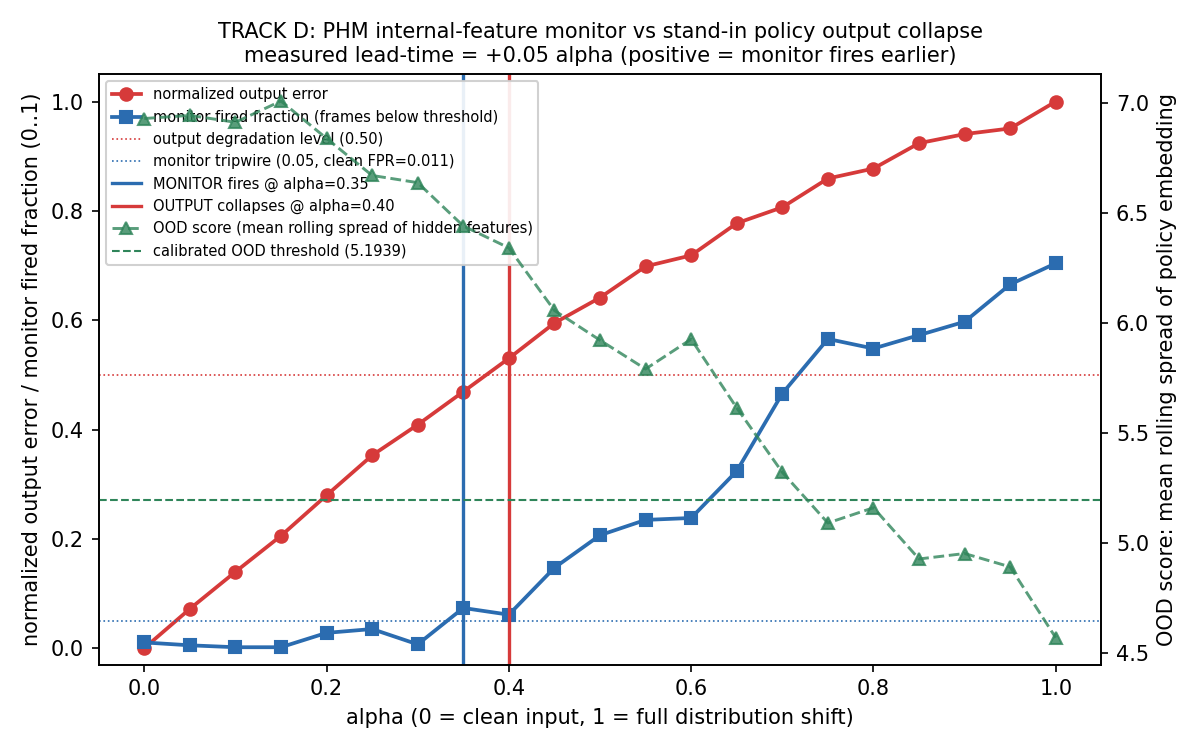
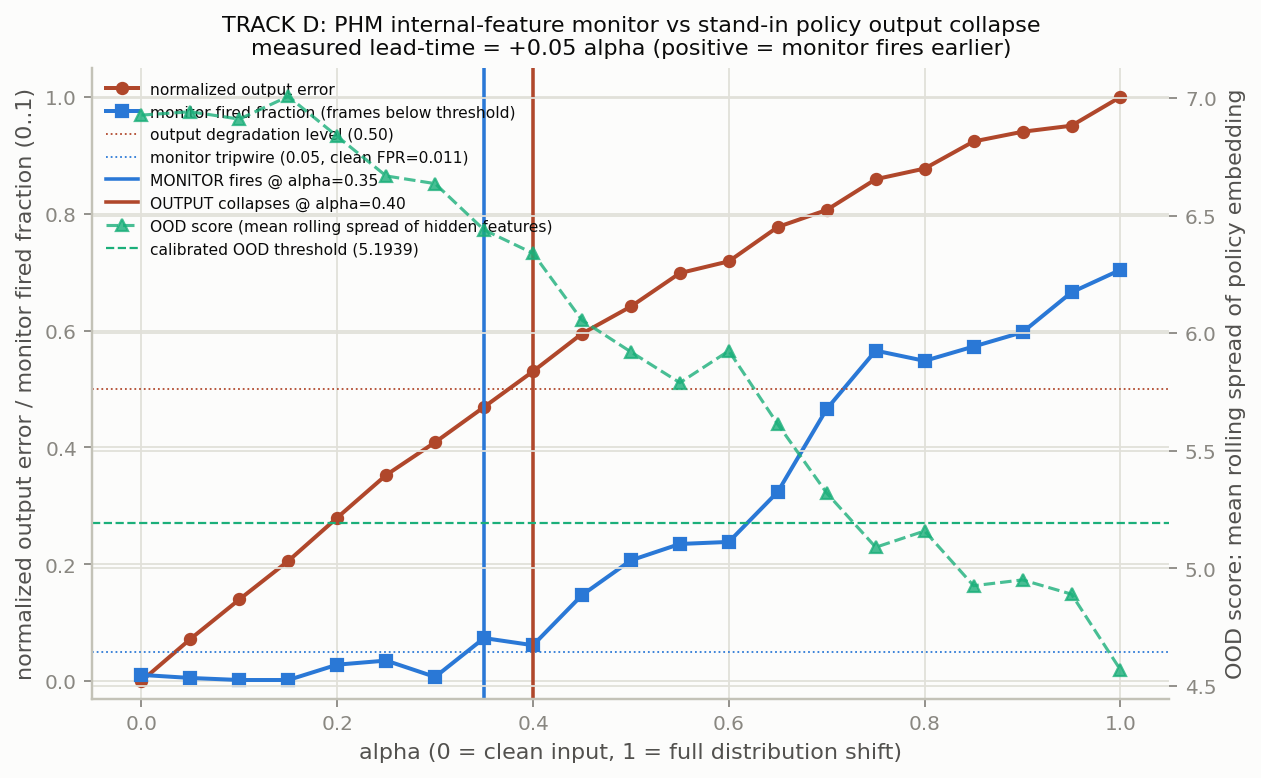
Theme demo figure to physx-newton-bench editorial style
Cream canvas, blue/green palette, no top/right spines, faint grid, ink titles.
Adds vla_monitor_demo/physx_style.{py,mplstyle}; re-themes the alpha-sweep demo
figure. Figure data unchanged (theme only).

diff --git a/vla_monitor_demo/physx_style.py b/vla_monitor_demo/physx_style.py
@@ -1,0 +1,34 @@
+"""Editorial-print figure theme shared across projects.
+
+Source of truth: physx-newton-bench. One line to adopt:
+
+    import physx_style; physx_style.apply()
+
+Then plot as usual; every figure inherits the cream canvas, muted frame,
+and the physx-blue / newton-green palette. `PALETTE` and `COLORS` are
+exposed for scripts that need an explicit per-series color.
+"""
+import os
+import matplotlib.pyplot as plt
+
+_STYLE = os.path.join(os.path.dirname(os.path.abspath(__file__)), "physx_style.mplstyle")
+
+# Editorial-print ink used for annotations/titles when set explicitly.
+INK = "#0b0b0b"
+CREAM = "#fcfcfb"
+PALETTE = ["#2a78d6", "#1baf7a", "#d08a2e", "#b0472b", "#6a5acd", "#52514e"]
+# Canonical two-backend mapping (physx-newton-bench).
+COLORS = {"physx": "#2a78d6", "newton": "#1baf7a"}
+
+
+def apply():
+    """Activate the shared style. Safe to call more than once."""
+    plt.style.use(_STYLE)
+
+
+def cmap_cycle(n):
+    """n categorical colors from the editorial palette (drop-in for plt.cm.tabX).
+
+    Returns a list of hex strings, wrapping the palette if n exceeds its length.
+    """
+    return [PALETTE[i % len(PALETTE)] for i in range(int(n))]

diff --git a/vla_monitor_demo/run_demo.py b/vla_monitor_demo/run_demo.py
@@ -32,24 +32,25 @@ def plot_matplotlib(res: SweepResult, out: Path) -> None:
     import matplotlib
     matplotlib.use("Agg")
     import matplotlib.pyplot as plt
-
+    import physx_style as _physx_style  # editorial-print theme
+    _physx_style.apply()
     fig, ax_left = plt.subplots(figsize=(8, 5), dpi=150)
 
     # Left axis: normalized output error and the monitor fired-fraction.
     ax_left.plot(
-        res.alphas, res.output_error, "o-", color="#d63a3a", lw=1.8,
+        res.alphas, res.output_error, "o-", color="#b0472b", lw=1.8,
         label="normalized output error",
     )
     ax_left.plot(
-        res.alphas, res.fired_fraction, "s-", color="#2b6cb0", lw=1.8,
+        res.alphas, res.fired_fraction, "s-", color="#2a78d6", lw=1.8,
         label="monitor fired fraction (frames below threshold)",
     )
     ax_left.axhline(
-        res.output_degradation_level, color="#d63a3a", lw=0.8, ls=":",
+        res.output_degradation_level, color="#b0472b", lw=0.8, ls=":",
         label=f"output degradation level ({res.output_degradation_level:.2f})",
     )
     ax_left.axhline(
-        res.monitor_fire_fraction, color="#2b6cb0", lw=0.8, ls=":",
+        res.monitor_fire_fraction, color="#2a78d6", lw=0.8, ls=":",
         label=(
             f"monitor tripwire ({res.monitor_fire_fraction:.2f}, "
             f"clean FPR={res.clean_fpr:.3f})"
@@ -62,11 +63,11 @@ def plot_matplotlib(res: SweepResult, out: Path) -> None:
     # Right axis: the raw OOD score (mean rolling spread) and the threshold line.
     ax_right = ax_left.twinx()
     ax_right.plot(
-        res.alphas, res.ood_score, "^--", color="#2f855a", lw=1.4, alpha=0.8,
+        res.alphas, res.ood_score, "^--", color="#1baf7a", lw=1.4, alpha=0.8,
         label="OOD score (mean rolling spread of hidden features)",
     )
     ax_right.axhline(
-        res.threshold, color="#2f855a", lw=1.0, ls="--",
+        res.threshold, color="#1baf7a", lw=1.0, ls="--",
         label=f"calibrated OOD threshold ({res.threshold:.4f})",
     )
     ax_right.set_ylabel("OOD score: mean rolling spread of policy embedding")
@@ -74,12 +75,12 @@ def plot_matplotlib(res: SweepResult, out: Path) -> None:
     # Vertical markers for the two firing alphas.
     if not np.isnan(res.monitor_fires_at):
         ax_left.axvline(
-            res.monitor_fires_at, color="#2b6cb0", lw=1.6,
+            res.monitor_fires_at, color="#2a78d6", lw=1.6,
             label=f"MONITOR fires @ alpha={res.monitor_fires_at:.2f}",
         )
     if not np.isnan(res.output_collapses_at):
         ax_left.axvline(
-            res.output_collapses_at, color="#d63a3a", lw=1.6,
+            res.output_collapses_at, color="#b0472b", lw=1.6,
             label=f"OUTPUT collapses @ alpha={res.output_collapses_at:.2f}",
         )
 